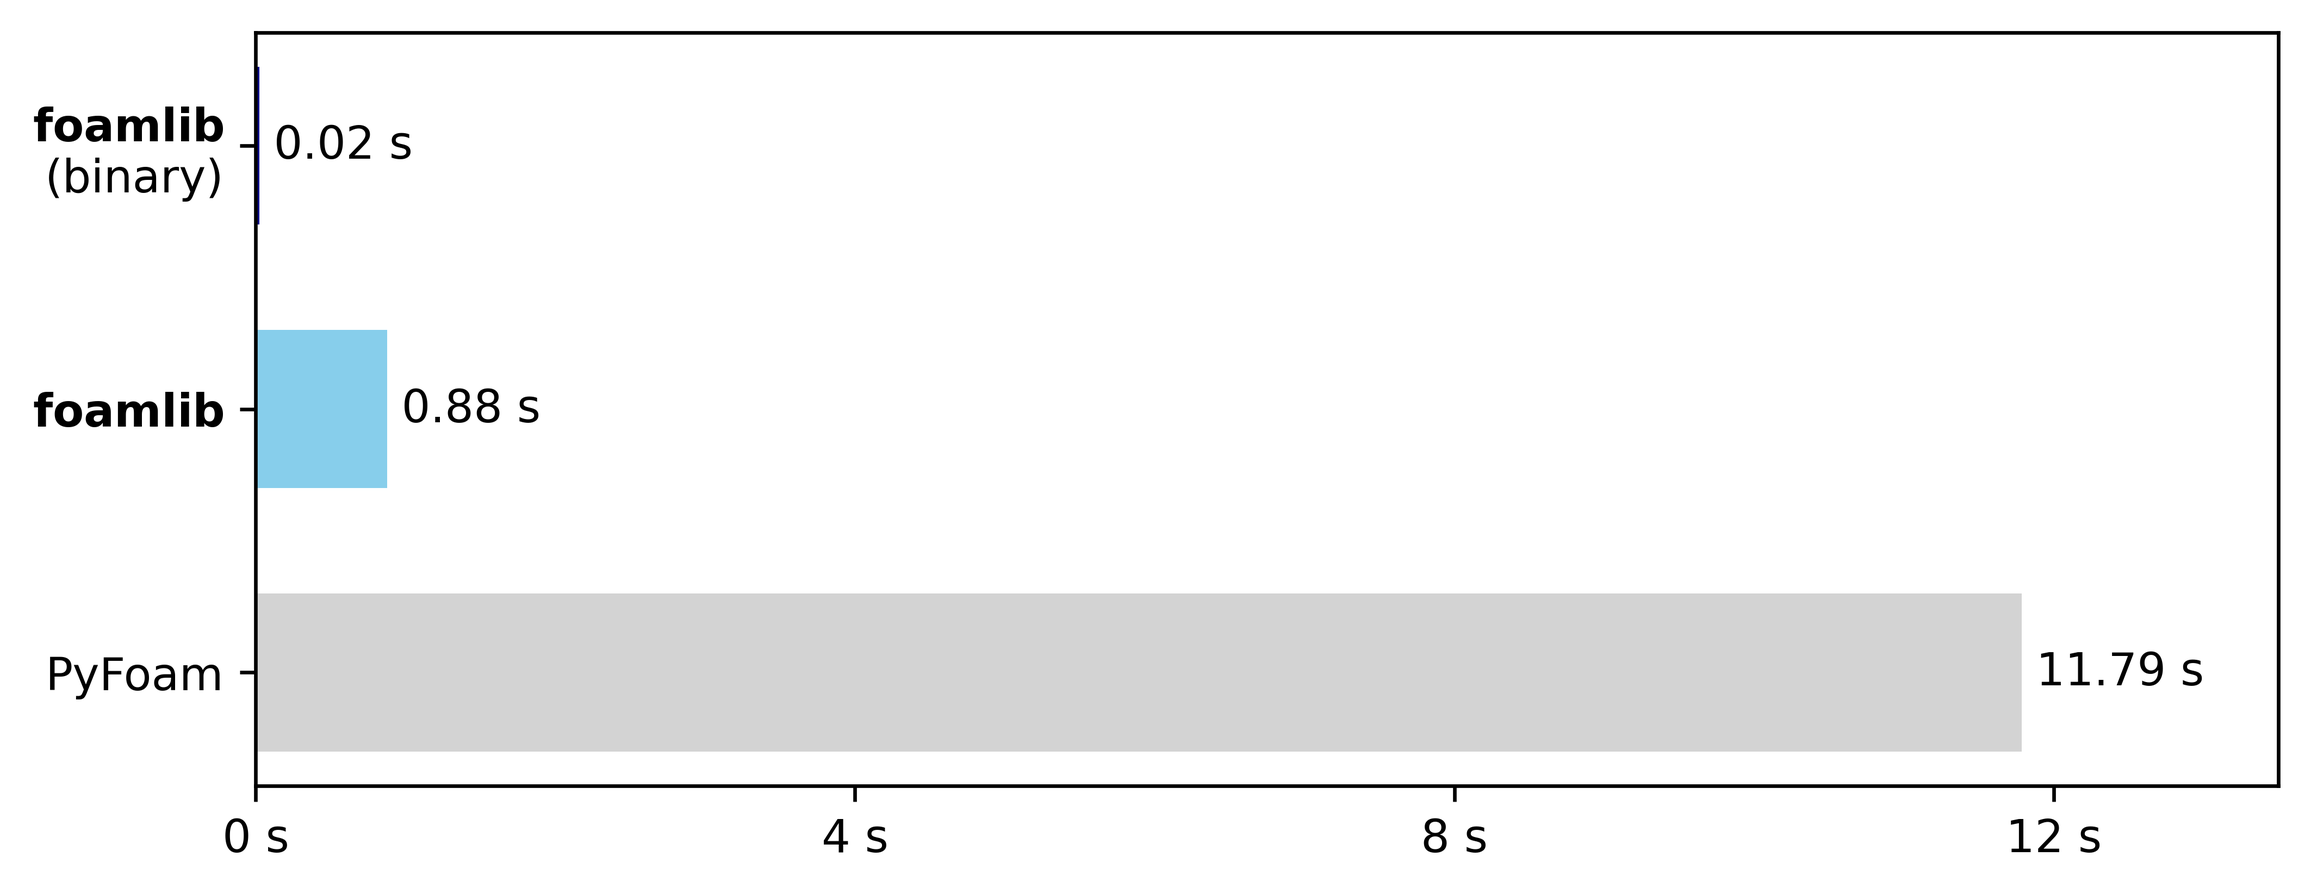
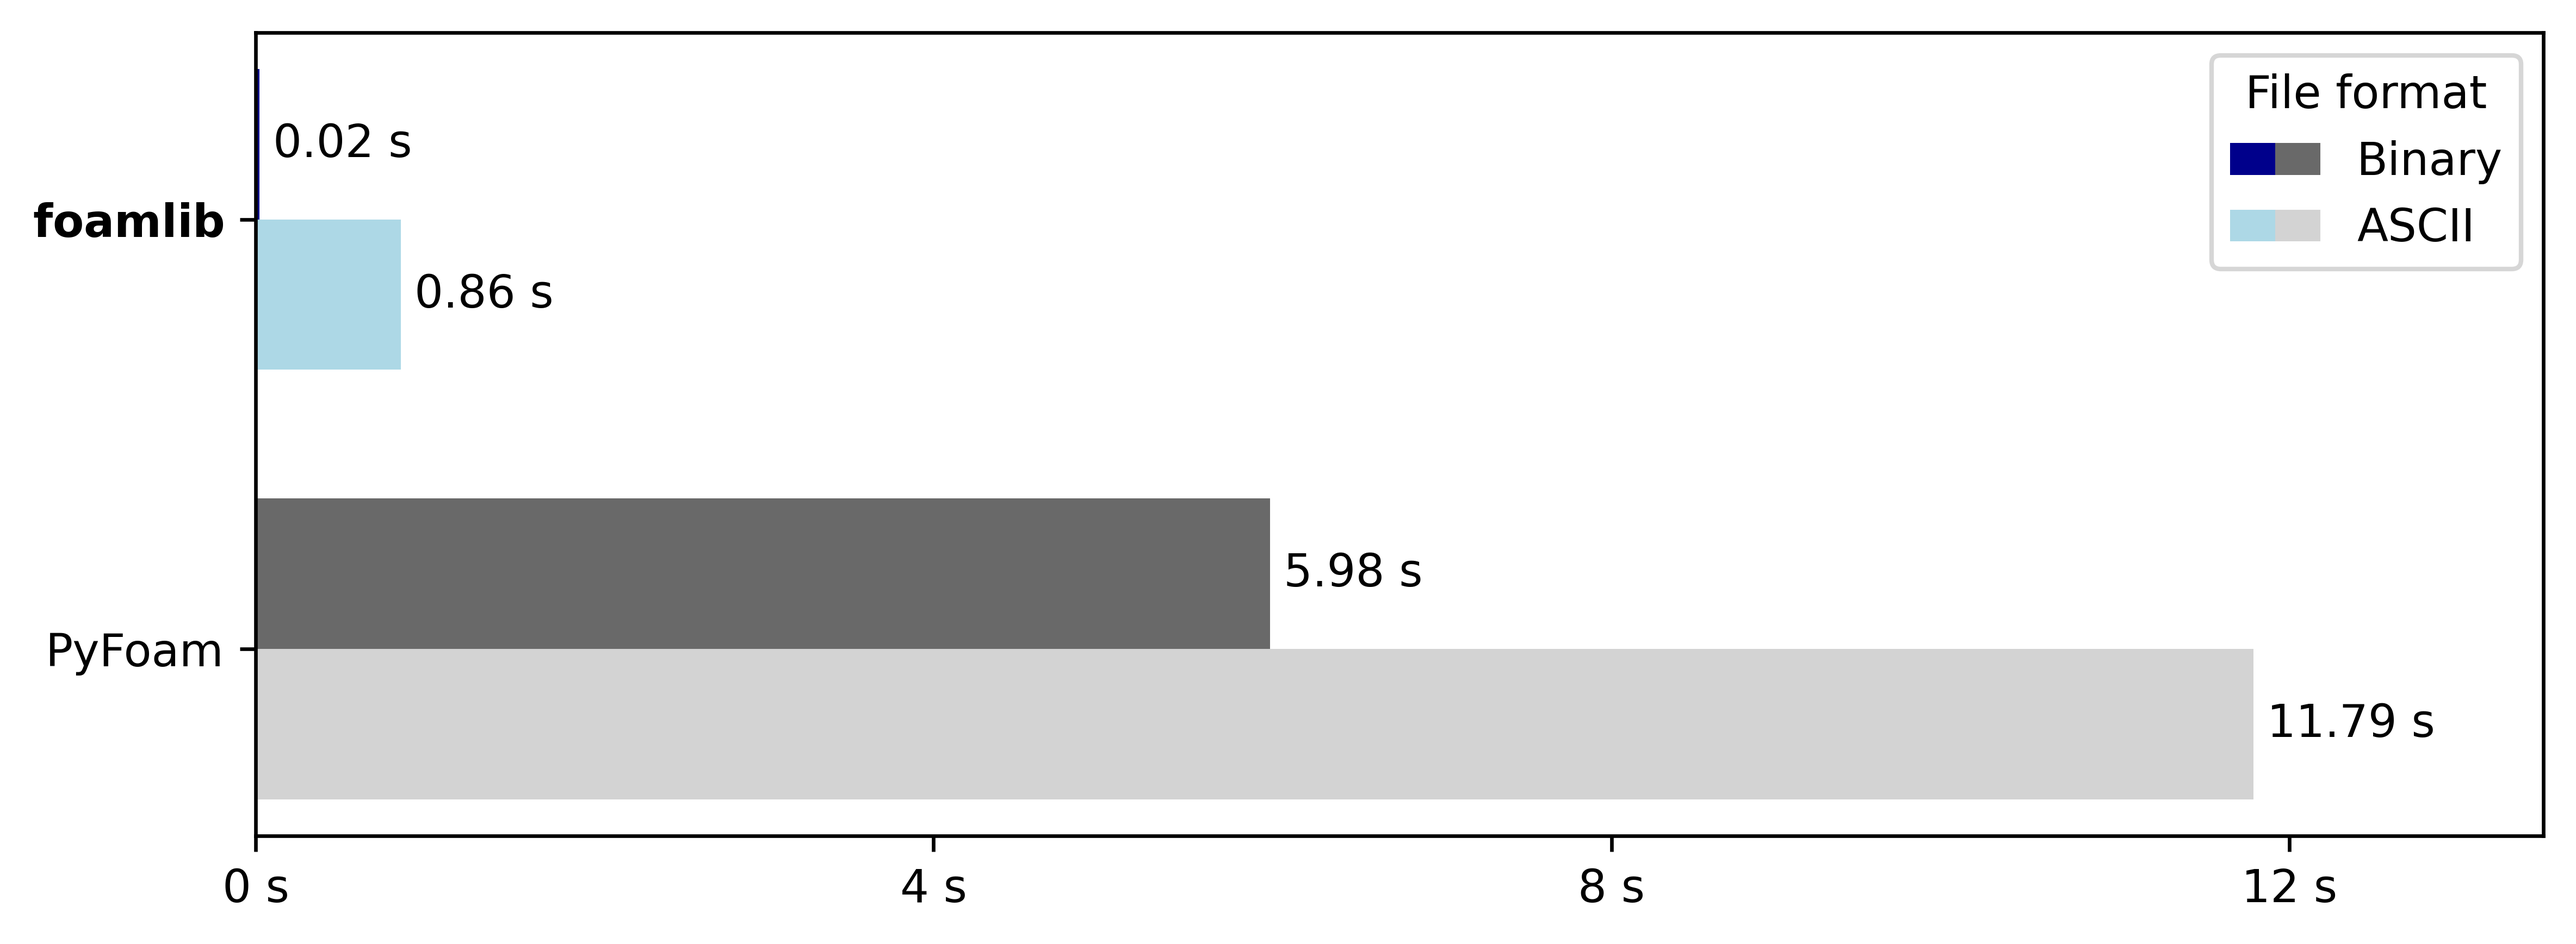
Update benchmark

Changed region(s): [[0.0, 0.031, 0.9939, 0.9611], [0.8696, 0.7131, 0.9628, 0.7751], [0.5901, 0.9301, 0.6522, 0.9611]]

diff --git a/benchmark/benchmark.py b/benchmark/benchmark.py
@@ -13,11 +13,14 @@ with FoamFieldFile("U_binary") as f:
     f.internal_field = [[0.0, 0.0, 0.0]] * 1_000_000
 
 print(
-    f"foamlib: {min(timeit.repeat(lambda: FoamFieldFile('U').internal_field, number=1))} s"
-)
-print(
     f"foamlib (binary): {min(timeit.repeat(lambda: FoamFieldFile('U_binary').internal_field, number=1))} s"
 )
 print(
-    f"PyFoam: {min(timeit.repeat(lambda: ParsedParameterFile('U')['internalField'], number=1))} s"
+    f"foamlib (ASCII): {min(timeit.repeat(lambda: FoamFieldFile('U').internal_field, number=1))} s"
+)
+print(
+    f"PyFoam (binary): {min(timeit.repeat(lambda: ParsedParameterFile('U_binary')['internalField'], number=1))} s"
+)
+print(
+    f"PyFoam (ASCII): {min(timeit.repeat(lambda: ParsedParameterFile('U')['internalField'], number=1))} s"
 )

diff --git a/README.md b/README.md
@@ -282,4 +282,4 @@ If you use **foamlib** in your research, please cite our paper:
 
 ## 👟 Footnotes
 
-<a id="benchmark">[1]</a> foamlib 1.3.9 vs. PyFoam 2023.7 (Python 3.11.13) on an M3 MacBook Air. [Benchmark script](https://github.com/gerlero/foamlib/blob/main/benchmark/benchmark.py).
+<a id="benchmark">[1]</a> foamlib 1.3.11 vs. PyFoam 2023.7 (Python 3.11.13) on an M3 MacBook Air. [Benchmark script](https://github.com/gerlero/foamlib/blob/main/benchmark/benchmark.py).
